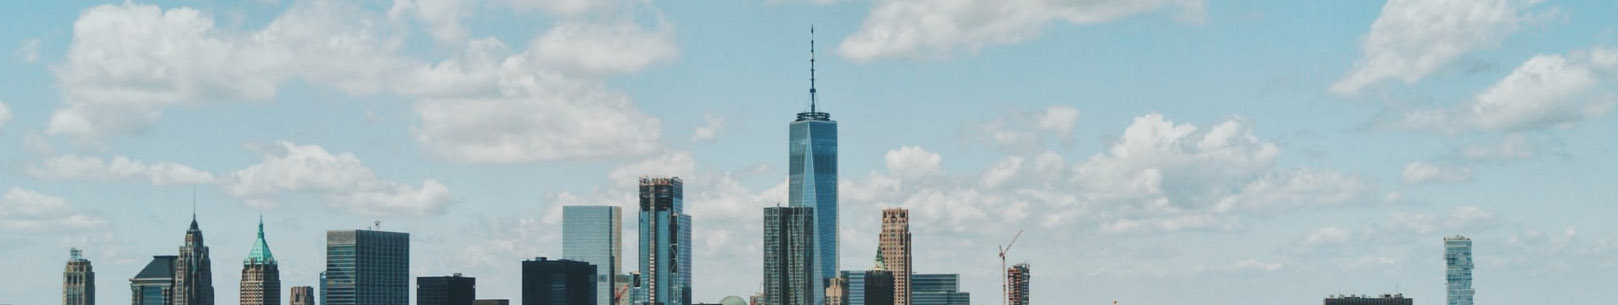
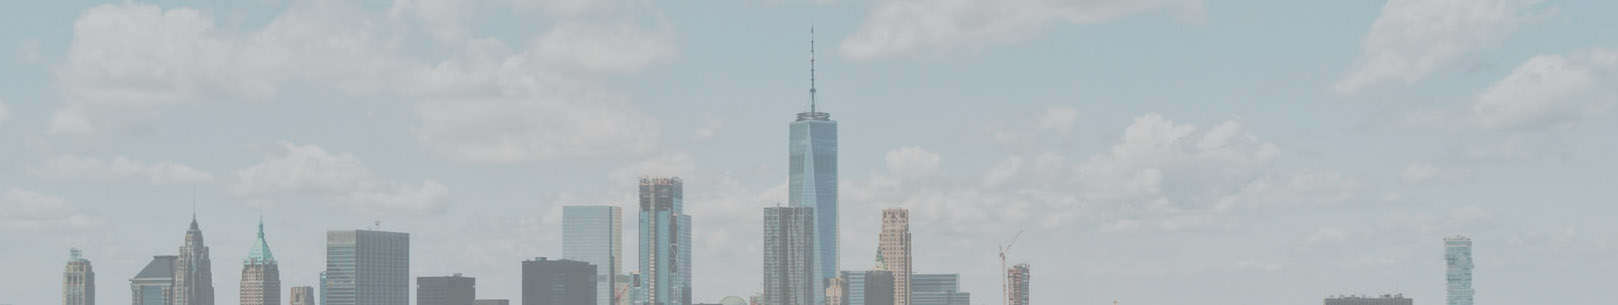
fixed picture error, and other things

diff --git a/scss/_small.scss b/scss/_small.scss
@@ -22,7 +22,6 @@ main{
 .himg{
     max-width: 64rem;
     height: auto;
-    contain: content;
     background-blend-mode: color-burn;
 }
 div.heroTxt{
@@ -36,14 +35,21 @@ header {
     display: grid;
     grid-template-columns: 51px auto;
     align-items: center;
-	
-	h1 {
+
+        h1 {
         margin-top: 65px;
         font-size: 1.6rem;
         font-weight: $lightWeight;
         padding-left: .5rem;
-        color: $primaryColor;
+        color: darken($primaryColor, 25%);
+        position: absolute;
+        margin-top: -70px;
     }
+    h2{
+        position: absolute;
+        margin-top: -55px;
+    }
+
 } // end header
 
 /* NAVIGATION STUFF GOES HERE  */
@@ -108,7 +114,6 @@ nav {
     color: #fff;
     transition: all .2s ease-in;
 
-
     }
 
 }
@@ -137,6 +142,7 @@ nav ul#navMenu li:hover{
     
     font-size: .75rem;
     content: "\25BC";
+    justify-content: center;
     color: #000000da;
     float: right;
 }
@@ -166,8 +172,8 @@ main {
 	h1 {
         padding: 1rem 2vw .5rem 2vw; 
         font-size: 1.5rem; 
-        color: $secondaryColor;
-        font-weight: $lightWeight
+        color: lighten($secondaryColor, 40%);
+        font-weight: $lightWeight;
     }
     .hero {width: 100%;}
     .hero img {
@@ -197,22 +203,23 @@ picture div{
 }
 h2 {
     color: white;
+    text-shadow: 0 0 10px black;
 }
 
 //cards start
 div a.fa-solid.fa-suitcase-rolling::before{
     width: 25%;
     height: 500vw;
-    color: #eee;
+    color: lighten($secondaryColor, 40%);
 
 }
 .fa-solid{
     flex-basis: 25%;
-    color: white;
+    color: lighten($secondaryColor, 40%);
 }
 div.icon{
     display: block;
-    color: white;
+    color: lighten($secondaryColor, 40%);
 } 
 div{display: block;}
 div.cards{

diff --git a/css/styles.css b/css/styles.css
@@ -322,7 +322,6 @@ main .small-4 {
 .himg {
   max-width: 64rem;
   height: auto;
-  contain: content;
   background-blend-mode: color-burn; }
 
 div.heroTxt {
@@ -340,7 +339,12 @@ header {
     font-size: 1.6rem;
     font-weight: 300;
     padding-left: .5rem;
-    color: #DB766C; }
+    color: #a03227;
+    position: absolute;
+    margin-top: -70px; }
+  header h2 {
+    position: absolute;
+    margin-top: -55px; }
 
 /* NAVIGATION STUFF GOES HERE  */
 nav {
@@ -409,6 +413,7 @@ ul#navMenu li.active {
 #navMenu li.parent > a::after {
   font-size: .75rem;
   content: "\25BC";
+  justify-content: center;
   color: #000000da;
   float: right; }
 
@@ -434,7 +439,7 @@ main p {
 main h1 {
   padding: 1rem 2vw .5rem 2vw;
   font-size: 1.5rem;
-  color: #009dff;
+  color: #ccebff;
   font-weight: 300; }
 main .hero {
   width: 100%; }
@@ -458,20 +463,21 @@ picture div {
     padding-left: 15px; }
 
 h2 {
-  color: white; }
+  color: white;
+  text-shadow: 0 0 10px black; }
 
 div a.fa-solid.fa-suitcase-rolling::before {
   width: 25%;
   height: 500vw;
-  color: #eee; }
+  color: #ccebff; }
 
 .fa-solid {
   flex-basis: 25%;
-  color: white; }
+  color: #ccebff; }
 
 div.icon {
   display: block;
-  color: white; }
+  color: #ccebff; }
 
 div {
   display: block; }
@@ -662,13 +668,12 @@ footer {
     z-index: 1;
     top: 5%; }
 
-  ul#navMenu {
+  div nav {
     border: none;
     position: inherit;
     overflow: hidden;
     /* visibility: hidden; */
     width: 64rem;
-    margin-top: 80px;
     background: #fff;
     transition: all .2s ease;
     transform: translateY(-15px);

diff --git a/index.html b/index.html
@@ -17,14 +17,14 @@
 <body>
 <div id="headerWrapper">
 	<header>
-        <picture class="hero">
-            
+        <div class="hero">
+                
                 <img src="/images/heroimg.jpg" class="himg" alt="City NYC">
                     <h1>Gotham City</h1>
                     <h2 style="padding: 1rem 2vw 0.5rem 2vw;">A Vacation Spot for the Adventerous</h2>
             
 
-        </picture>
+        </div>
 	</header>
 
     
@@ -36,6 +36,7 @@
             <li><a href="#">Home</a></li>
             <li class="parent"><a href="#">Services</a>
             <ul>
+                <li><a href="#">Sign in</a></li>                
                 <li><a href="#">Make a Complaint</a></li>
                 <li><a href="#">Other</a></li>                
             </ul>

diff --git a/scss/_medium.scss b/scss/_medium.scss
@@ -67,14 +67,14 @@ h1{
             top: 5%;
             
         }
-        ul#navMenu{
+        div nav{
                 border: none;
             position: inherit;
             overflow: hidden;
 
     /* visibility: hidden; */
     width: 64rem;
-    margin-top:80px;
+
     background: #fff;
     transition: all .2s ease;
     transform: translateY(-15px);
